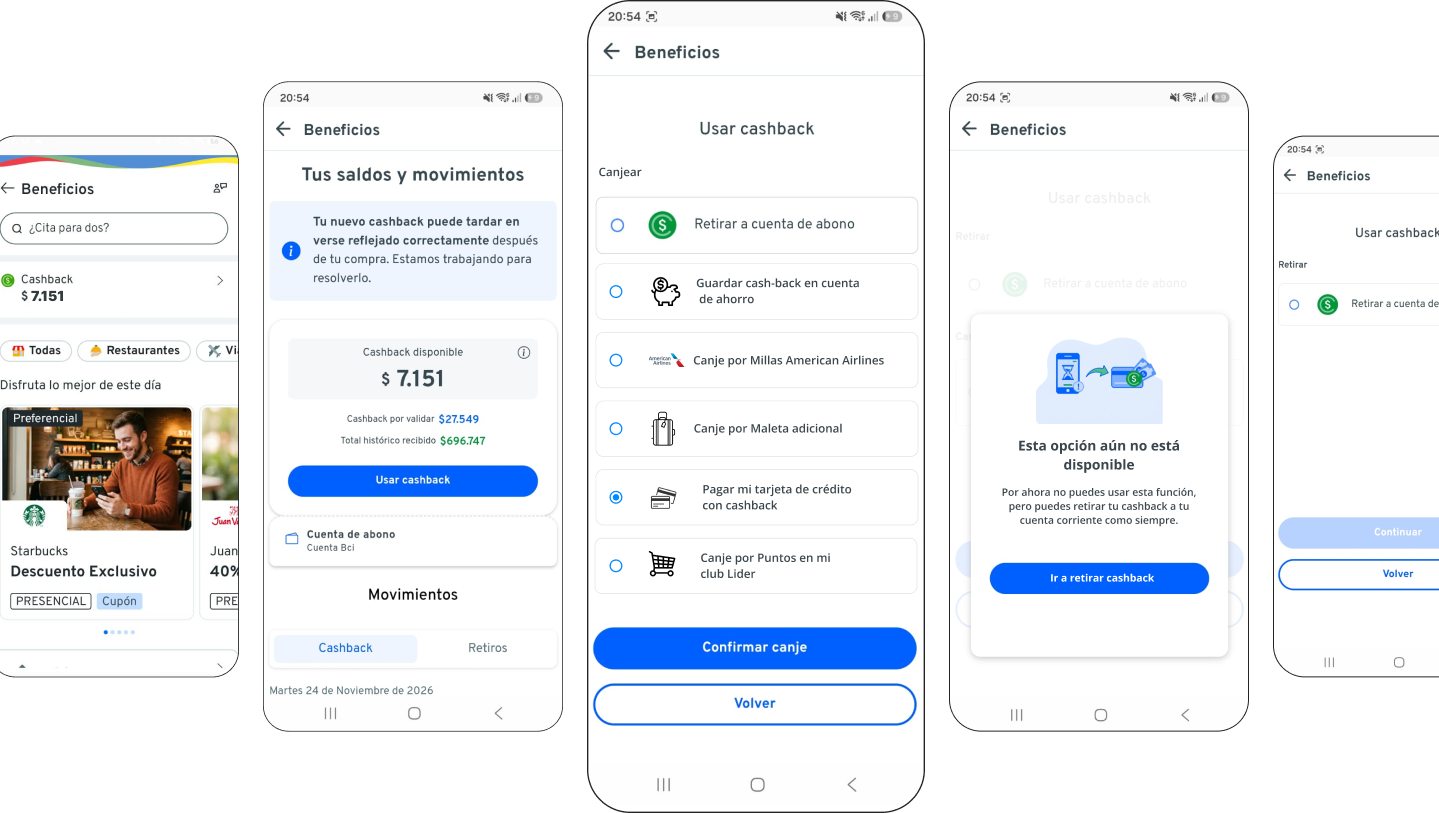
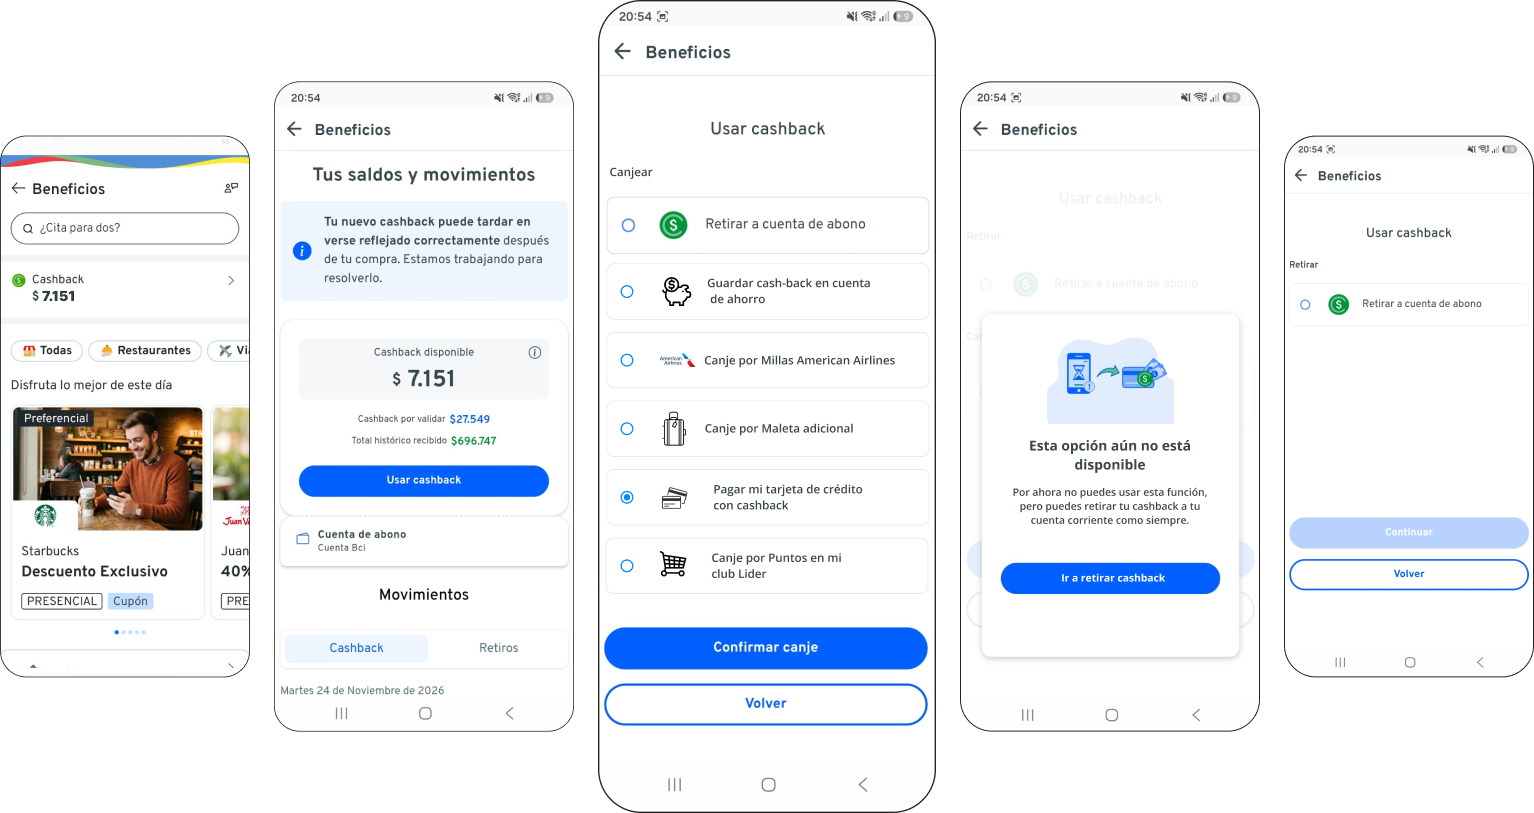
fix(proyectos/bci): ajustes de layout según diseño
- Línea divisoria bajo los metadatos
- Menor separación entre texto e imagen en Contexto
- Fakedoor con la tira completa de pantallas, centrada
- Canje parcial con pantallas escalonadas a la derecha del texto
- Separación de 60px entre secciones y 60px arriba y abajo en resultados

Claude-Session: https://claude.ai/code/session_015HipdXcdBid59EhHDfwosN

diff --git a/src/app/proyectos/bci/BciProject.tsx b/src/app/proyectos/bci/BciProject.tsx
@@ -4,9 +4,11 @@ import cashbackResumen from "@/assets/images/bci/cashback-resumen.png";
 import saldosMovimientos from "@/assets/images/bci/saldos-movimientos.png";
 import usarCashback from "@/assets/images/bci/usar-cashback.png";
 import canjeMonto from "@/assets/images/bci/canje-monto.png";
-import fakedoorStrip from "@/assets/images/bci/fakedoor-pantallas.png";
+import fakedoorPantallas from "@/assets/images/bci/fakedoor-pantallas.png";
 import { caso } from "./bci.data";
 import styles from "./BciProject.module.css";
+
+type ResultItem = { valor: string; texto: string; destacado?: boolean };
 
 export default function BciProject() {
   return (
@@ -28,14 +30,17 @@ export default function BciProject() {
         <p className={styles.description}>{caso.description}</p>
       </header>
 
-      <dl className={styles.meta}>
-        {caso.meta.map((item) => (
-          <div key={item.label} className={styles.metaItem}>
-            <dt className={styles.metaLabel}>{item.label}</dt>
-            <dd className={styles.metaValue}>{item.value}</dd>
-          </div>
-        ))}
-      </dl>
+      <div className={styles.metaBlock}>
+        <dl className={styles.meta}>
+          {caso.meta.map((item) => (
+            <div key={item.label} className={styles.metaItem}>
+              <dt className={styles.metaLabel}>{item.label}</dt>
+              <dd className={styles.metaValue}>{item.value}</dd>
+            </div>
+          ))}
+        </dl>
+        <hr className={styles.divider} />
+      </div>
 
       <section className={styles.contexto} aria-labelledby="contexto-titulo">
         <div className={styles.contextoText}>
@@ -87,12 +92,14 @@ export default function BciProject() {
             {p}
           </p>
         ))}
-        <Image
-          src={fakedoorStrip}
-          alt="Pantallas del fakedoor de canje de cashback"
-          className={styles.strip}
-          sizes="(max-width: 900px) 100vw, 900px"
-        />
+        <div className={styles.centered}>
+          <Image
+            src={fakedoorPantallas}
+            alt="Pantallas del prototipo del fakedoor de canje de cashback"
+            className={styles.strip}
+            sizes="(max-width: 1000px) 100vw, 1000px"
+          />
+        </div>
       </section>
 
       <section className={styles.section} aria-labelledby="canje-titulo">
@@ -106,20 +113,37 @@ export default function BciProject() {
           </p>
         ))}
         <div className={styles.phonesRow}>
-          <Image src={saldosMovimientos} alt="Pantalla de saldos y movimientos" className={styles.phone} sizes="(max-width: 600px) 45vw, 260px" />
-          <Image src={usarCashback} alt="Pantalla usar cashback con opciones de canje" className={styles.phone} sizes="(max-width: 600px) 45vw, 260px" />
-          <Image src={canjeMonto} alt="Pantalla de selección de monto a canjear" className={styles.phone} sizes="(max-width: 600px) 45vw, 260px" />
+          <Image
+            src={saldosMovimientos}
+            alt="Pantalla de saldos y movimientos"
+            className={`${styles.phone} ${styles.phoneLeft}`}
+            sizes="(max-width: 600px) 32vw, 240px"
+          />
+          <Image
+            src={usarCashback}
+            alt="Pantalla usar cashback con opciones de canje"
+            className={`${styles.phone} ${styles.phoneMid}`}
+            sizes="(max-width: 600px) 32vw, 240px"
+          />
+          <Image
+            src={canjeMonto}
+            alt="Pantalla de selección de monto a canjear"
+            className={`${styles.phone} ${styles.phoneRight}`}
+            sizes="(max-width: 600px) 32vw, 240px"
+          />
         </div>
       </section>
 
-      <section className={styles.section} aria-labelledby="res-fakedoor">
-        <h2 id="res-fakedoor" className={styles.sectionTitle}>
-          {caso.resultadosFakedoor.title}
-        </h2>
-        <ResultGrid items={caso.resultadosFakedoor.items} />
+      <section className={styles.resultsBand} aria-labelledby="res-fakedoor">
+        <div className={styles.resultsInner}>
+          <h2 id="res-fakedoor" className={styles.sectionTitle}>
+            {caso.resultadosFakedoor.title}
+          </h2>
+          <ResultGrid items={caso.resultadosFakedoor.items} />
+        </div>
       </section>
 
-      <section className={styles.section} aria-labelledby="res-guerrilla">
+      <section className={styles.resultsSection} aria-labelledby="res-guerrilla">
         <h2 id="res-guerrilla" className={styles.sectionTitle}>
           {caso.resultadosGuerrilla.title}
         </h2>
@@ -129,13 +153,14 @@ export default function BciProject() {
   );
 }
 
-type ResultItem = { valor: string; texto: string; destacado?: boolean };
-
 function ResultGrid({ items }: { items: ResultItem[] }) {
   return (
     <div className={styles.results}>
       {items.map((item) => (
-        <div key={item.valor} className={`${styles.resultCard} ${item.destacado ? styles.resultHighlight : ""}`}>
+        <div
+          key={item.valor}
+          className={`${styles.resultCard} ${item.destacado ? styles.resultHighlight : ""}`}
+        >
           <p className={styles.resultValue}>{item.valor}</p>
           <p className={styles.resultText}>{item.texto}</p>
         </div>

diff --git a/src/app/proyectos/bci/BciProject.module.css b/src/app/proyectos/bci/BciProject.module.css
@@ -4,7 +4,7 @@
   padding: 24px var(--space-page-x) 56px;
   display: flex;
   flex-direction: column;
-  gap: 48px;
+  gap: 60px;
 }
 
 .back {
@@ -51,11 +51,18 @@
   line-height: 1.5;
 }
 
+/* Metadatos con su línea divisoria */
+
+.metaBlock {
+  display: flex;
+  flex-direction: column;
+  gap: 24px;
+}
+
 .meta {
   display: grid;
   grid-template-columns: repeat(5, minmax(0, 1fr));
   gap: 16px;
-  max-width: 980px;
 }
 
 .metaItem {
@@ -77,10 +84,21 @@
   color: var(--color-text);
 }
 
+.divider {
+  border: none;
+  border-top: 1px solid var(--color-line);
+  width: 100%;
+}
+
 .section {
   display: flex;
   flex-direction: column;
   gap: 16px;
+}
+
+.centered {
+  display: flex;
+  justify-content: center;
 }
 
 .sectionTitle {
@@ -94,12 +112,12 @@
   color: var(--color-text);
 }
 
-/* Contexto */
+/* Contexto: texto e imagen más juntos */
 
 .contexto {
   display: grid;
   grid-template-columns: 1fr 373px;
-  gap: 48px;
+  gap: 24px;
   align-items: start;
 }
 
@@ -169,7 +187,15 @@
   line-height: 1.5;
 }
 
-/* Canje parcial */
+/* Fakedoor: imagen completa y centrada */
+
+.strip {
+  width: 100%;
+  max-width: 1000px;
+  height: auto;
+}
+
+/* Canje parcial: pantallas en escalera, a la derecha del texto */
 
 .canjeTag {
   align-self: flex-start;
@@ -180,26 +206,54 @@
 }
 
 .phonesRow {
-  display: grid;
-  grid-template-columns: repeat(3, minmax(0, 260px));
+  display: flex;
   justify-content: center;
-  align-items: end;
+  align-items: flex-start;
   gap: 24px;
-  margin-top: 16px;
+  margin-top: 24px;
 }
 
 .phone {
-  width: 100%;
+  width: 240px;
   height: auto;
 }
 
-.strip {
-  width: 100%;
-  height: auto;
-  max-width: 900px;
+.phoneLeft {
+  margin-top: 160px;
 }
 
-/* Resultados */
+.phoneMid {
+  margin-top: 80px;
+}
+
+.phoneRight {
+  margin-top: 0;
+}
+
+/* Resultados: 60px arriba y abajo */
+
+.resultsBand {
+  width: 100vw;
+  margin-left: calc(50% - 50vw);
+  background: #f7f7f7;
+  padding: 60px 0;
+}
+
+.resultsInner {
+  max-width: var(--max-content-width);
+  margin: 0 auto;
+  padding: 0 var(--space-page-x);
+  display: flex;
+  flex-direction: column;
+  gap: 16px;
+}
+
+.resultsSection {
+  display: flex;
+  flex-direction: column;
+  gap: 16px;
+  padding: 60px 0;
+}
 
 .results {
   display: grid;
@@ -275,11 +329,27 @@
   }
 
   .phonesRow {
-    grid-template-columns: repeat(3, minmax(0, 1fr));
     gap: 8px;
+  }
+
+  .phone {
+    width: 32vw;
+  }
+
+  .phoneLeft {
+    margin-top: 72px;
+  }
+
+  .phoneMid {
+    margin-top: 36px;
   }
 
   .processBand {
     padding: 32px 0;
+  }
+
+  .resultsBand,
+  .resultsSection {
+    padding: 60px 0;
   }
 }
